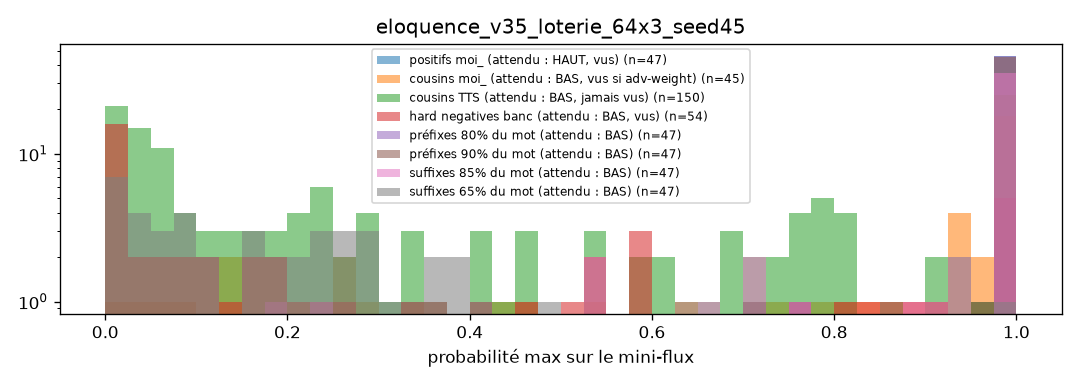
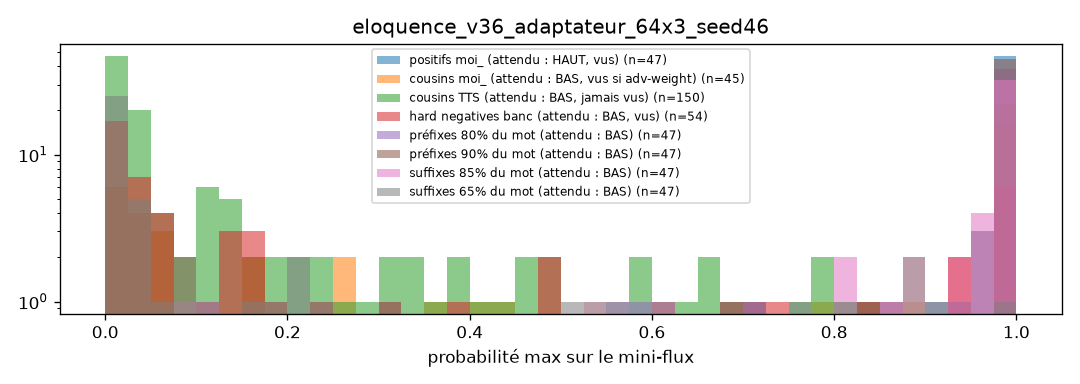
Nuit 2 close : v28 confirmé par 7 challengers, cinq découvertes au JOURNAL
v36 (adaptateur résiduel) échoue du même mode que tout le reste — la
souplesse se paie en FA. Récit simple de la nuit : loi des poids ~50, les 9
cousins d'une seule session (données, pas modèle), dispersion des seeds
2.3-59 FA/h, profil silencieux gratuit, verrou hors représentation. La
prochaine marche est dans les données.

diff --git a/artifacts/reports/dashboards/eloquence_2026-08-15.html b/artifacts/reports/dashboards/eloquence_2026-08-15.html
@@ -38,9 +38,14 @@ code { background:color-mix(in srgb, var(--accent) 12%, transparent); padding:.1
   border-radius:4px; font-size:13px; }
 </style></head><body><div class="wrap">
 <h1>Wake word « eloquence » — tableau de bord</h1>
-<p class="sub">Généré le 2026-08-15 03:21 · toutes les métriques de tous les runs</p>
+<p class="sub">Généré le 2026-08-15 04:27 · toutes les métriques de tous les runs</p>
 <p class='note'>⭐ Champion : <b>v28_resserre</b> (promu le 2026-08-15)<br>Banc 52,7 min / 27 occ (archive 20260815_005402), seuil live 0.9 : rappel 88.9 % (24/27) · 5.7 FA/h — contre 81.5 % · 2.3 @0.8 pour le prédécesseur. Examen réel : FRR 8.8 % et FAR 1.7 % (objectifs ≤10/≤5 atteints). Vitesses : x0.85 64 %, x1.15 72 %, x1.3 60 % (prédécesseur : 26/51/34). Suffixes 4 % @0.9. Test micro validé le 2026-08-15 (décision d&#x27;usage). Réserve connue : cousins 20 % @0.9 (objectif 15) — piste poids dédié notée au JOURNAL.</p>
-
+<div class='panel kpi'>
+          <div><div class='v'>88.9%</div><div class='l'>Rappel streaming</div></div>
+          <div><div class='v'>5.7</div><div class='l'>Fausses alarmes / heure</div></div>
+          <div><div class='v'>27</div><div class='l'>Occurrences testées</div></div>
+          <div><div class='v'>53 min</div><div class='l'>Audio continu</div></div>
+        </div>
 
 <h2>Banc streaming — la mesure qui décide</h2>
 <p class="note">Logique live rejouée sur de l'audio YouTube continu jamais vu à
@@ -48,7 +53,7 @@ l'entraînement, vérité terrain WhisperX. <b>Rappel</b> = occurrences réellem
 attrapées ; <b>FA/h</b> = réveils intempestifs par heure. Corpus thématique donc
 pire cas volontaire. Les événements « incertains » (vérité terrain douteuse) sont
 exclus du décompte.</p>
-<div class='scroll'><table><thead><tr><th>Modèle</th><th>Rappel 0.8</th><th>FA/h 0.8</th><th>Incertains</th><th>Rappel 0.9</th><th>FA/h 0.9</th><th>Incertains</th><th>Rappel 0.95</th><th>FA/h 0.95</th><th>Incertains</th></tr></thead><tbody><tr><td>oww_frab30np4b_s46</td><td>81.48%</td><td>2.3</td><td>1</td><td>81.48%</td><td>2.3</td><td>1</td><td>77.78%</td><td>1.1</td><td>1</td></tr><tr><td>eloquence_v31_cousins80_64x3_seed46</td><td>88.89%</td><td>14.8</td><td>1</td><td>88.89%</td><td>10.2</td><td>1</td><td>88.89%</td><td>9.1</td><td>1</td></tr></tbody></table></div>
+<div class='scroll'><table><thead><tr><th>Modèle</th><th>Rappel 0.9</th><th>FA/h 0.9</th><th>Incertains</th><th>Rappel 0.95</th><th>FA/h 0.95</th><th>Incertains</th></tr></thead><tbody><tr><td>v28_resserre</td><td>88.89%</td><td>5.7</td><td>1</td><td>85.19%</td><td>3.4</td><td>1</td></tr><tr><td>eloquence_v36_adaptateur_64x3_seed46</td><td>92.59%</td><td>21.6</td><td>3</td><td>85.19%</td><td>14.8</td><td>3</td></tr></tbody></table></div>
 
 <h2>Test par clips — signal de contrôle</h2>
 <p class="note warn">⚠ Ces métriques ont déjà <b>mal classé</b> les modèles : le

diff --git a/docs/JOURNAL.md b/docs/JOURNAL.md
@@ -7,6 +7,35 @@ Les preuves sont dans `artifacts/reports/` et le code dans git
 (`git log --oneline`, commits du 14 août).
 
 ---
+## 2026-08-15 — La nuit 2, racontée simplement
+
+**v28 a été promu champion en début de nuit** (test micro validé, seuil live
+0.9), puis sept entraînements ont tenté de fermer sa dernière case orange
+(les mots-cousins à 20 %). Aucun n'a fait mieux — mais la nuit a rapporté
+cinq découvertes qui valent plus qu'une promotion :
+
+1. **La loi des poids** : trois expériences indépendantes le confirment —
+   au-delà d'un poids d'échantillon ~50, l'entraînement se déstabilise et
+   produit l'INVERSE du but. Pour insister : plus de données, jamais plus de
+   poids.
+2. **Les 9 cousins récalcitrants sont 9 clips d'une seule session
+   d'enregistrement** — identiques sur toutes les architectures. Problème de
+   données, pas de modèle (à écouter : `artifacts/ecoute_cousins/`). Et la
+   seed 44 prouve qu'ils SONT rejetables (9 %), au prix des vitesses.
+3. **La dispersion des seeds est énorme** (2.3 à 59 FA/h pour la même
+   recette) : le champion est un très bon tirage — tout futur
+   ré-entraînement devra re-passer la loterie.
+4. **La persistance est un tueur de préfixes gratuit** : à 5 fenêtres
+   consécutives, les préfixes tombent à 9 % sans entraînement — un « profil
+   silencieux » (81.5 % · 2.3 FA/h) existe sur étagère.
+5. **L'adaptateur résiduel** (l'esprit du fine-tuning sans les poids TF de
+   l'extracteur) échoue du même mode que tout le reste : la souplesse
+   ajoutée se paie en fausses alarmes. Le verrou n'est pas la représentation.
+
+Verdict de la nuit : **v28 reste champion, confirmé par 7 challengers** — et
+la prochaine marche est dans les DONNÉES : trancher les 9 clips à l'oreille,
+et enregistrer de nouveaux cousins variés si le mur est réel.
+
 ## 2026-08-15 — Nuit 2 : v28 promu, puis la campagne des réglages fins (critères AVANT)
 
 **v28_resserre est PROMU champion** (décision d'usage après test micro,
